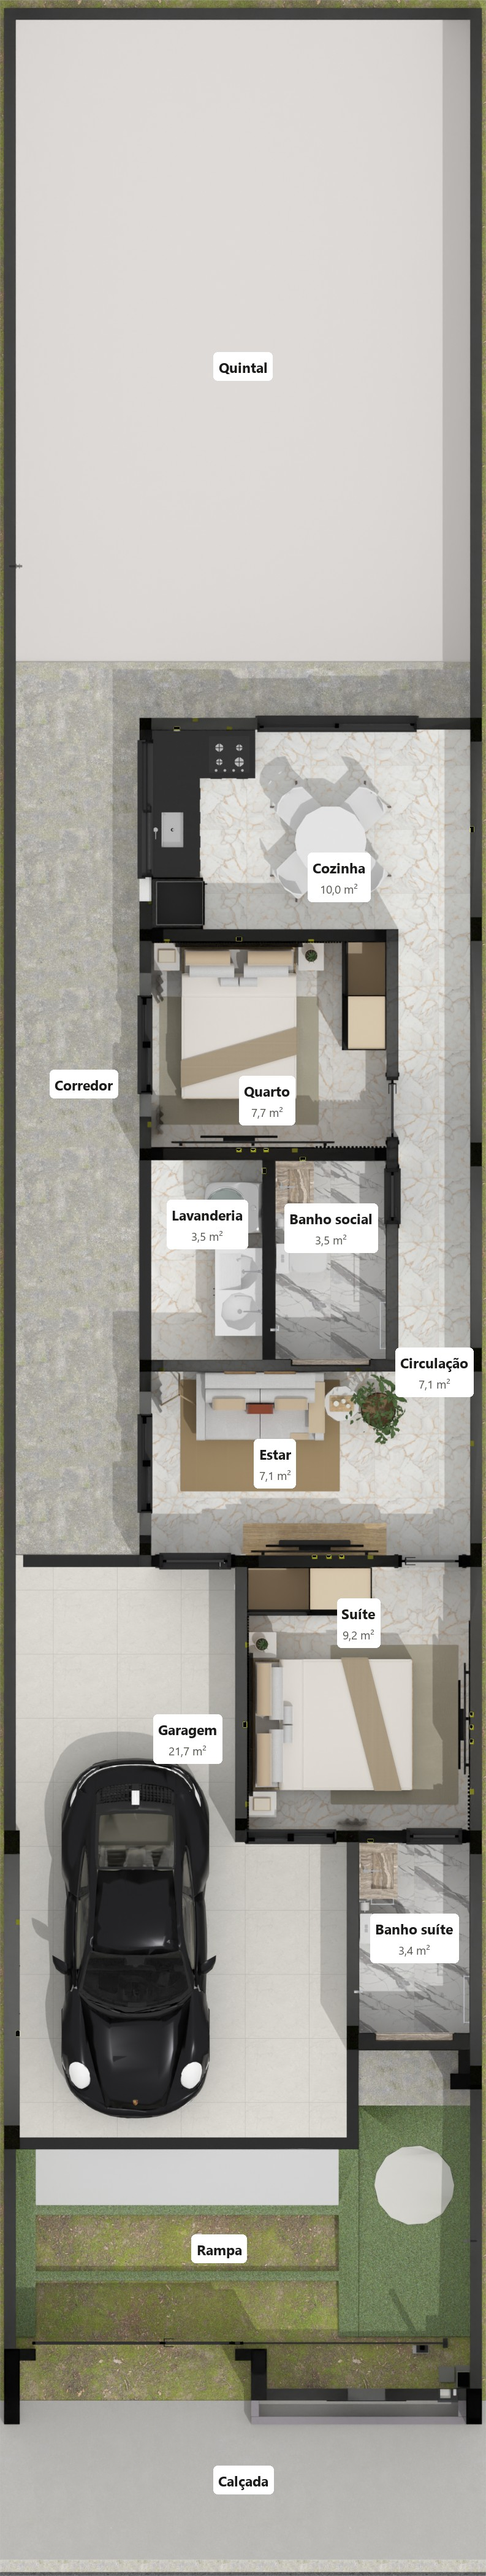
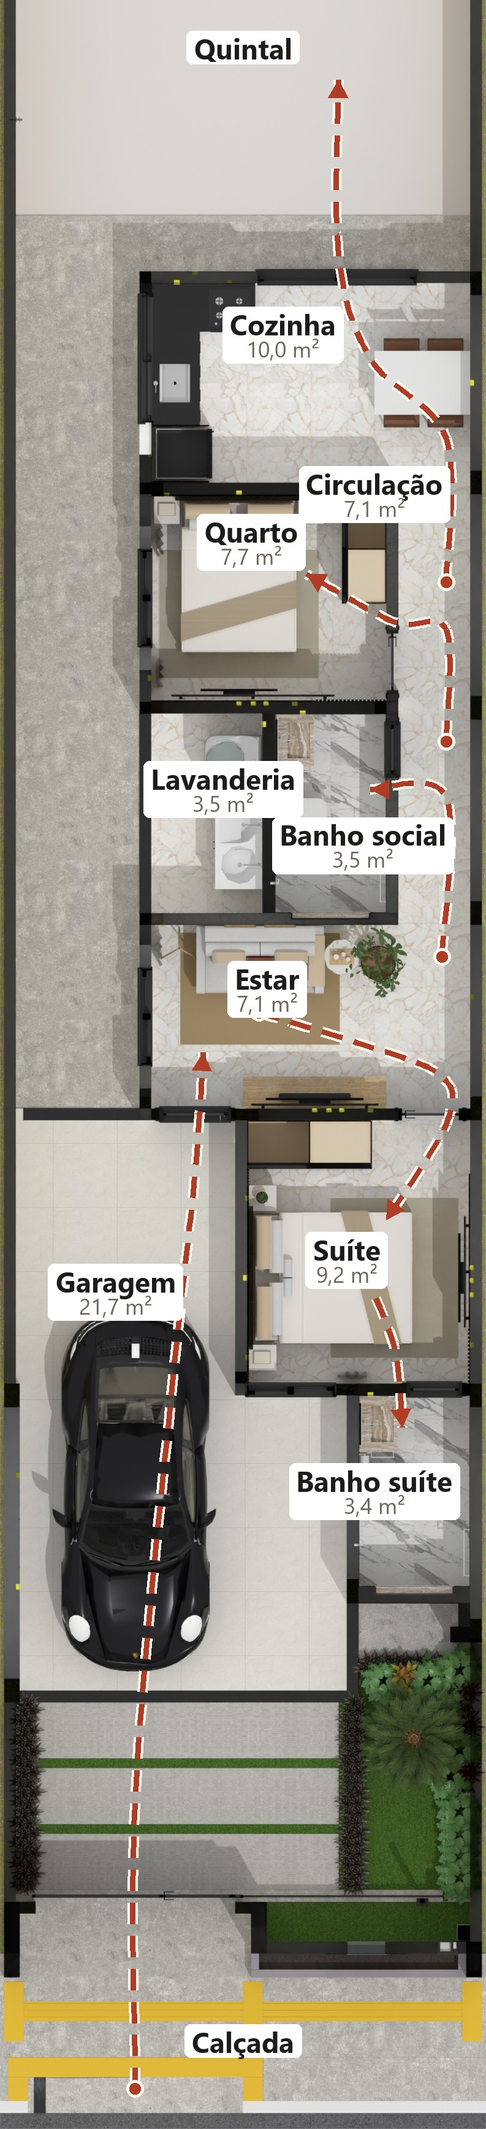
Planta humanizada com circulação, vegetação e área de cada ambiente; menu do celular não cobre os títulos

diff --git a/index.html b/index.html
@@ -170,10 +170,11 @@ footer .miolo { display: flex; justify-content: space-between; gap: 20px; flex-w
 .aviso-escopo a { color: var(--tinta); }
 @media (max-width: 820px) { .escopo .lista { grid-template-columns: minmax(0, 1fr); } }
 
-/* W2: celular */
+/* W2v2: celular */
 @media (max-width: 820px) {
   header.topo, .topo { position: sticky; top: 0; z-index: 50; }
   .topo .miolo { padding-block: 8px 0; }
+  section[id], [id].guia, .tela [id] { scroll-margin-top: 110px; }      /* o cabecalho fixo nao cobre o titulo ao tocar no menu */
   .topo nav { display: flex !important; flex-wrap: nowrap !important; overflow-x: auto; gap: 2px; -webkit-overflow-scrolling: touch; scrollbar-width: none; margin-inline: -4px; }
   .topo nav::-webkit-scrollbar { display: none; }
   .topo nav a { flex: 0 0 auto; display: inline-flex; align-items: center; min-height: 44px; padding: 0 10px; white-space: nowrap; }
@@ -234,9 +235,9 @@ footer .miolo { display: flex; justify-content: space-between; gap: 20px; flex-w
     <p class="rotulo">Planta</p>
     <h2>Uma planta pensada para aproveitar cada espaço</h2>
     <div class="planta">
-      <figure><img loading="lazy" src="img/planta-humanizada.jpg" alt="Planta baixa humanizada do lote 6 × 30 com a casa, a garagem, o corredor lateral e o quintal" data-legenda="Planta baixa humanizada"></figure>
+      <figure><img loading="lazy" src="img/planta-humanizada.jpg" alt="Planta humanizada com o jardim, os caminhos do dia a dia e o nome e a área de cada ambiente" data-legenda="Planta humanizada com circulação"></figure>
       <div class="lado">
-        <p class="intro">Conheça a distribuição da casa na planta humanizada, gerada diretamente do modelo do projeto. As paredes aparecem em preto; pisos e móveis mostram as cores reais dos acabamentos escolhidos. Da rua ao fundo, veja como os espaços se organizam:</p>
+        <p class="intro">Na planta humanizada, gerada do modelo do projeto, as linhas tracejadas mostram os caminhos do dia a dia, e cada ambiente traz o nome e a área. Da rua ao fundo:</p>
         <ol>
           <li>Calçada com piso tátil, muro com portão e porta social, rampa em placas de concreto</li>
           <li>Garagem coberta e, ao lado, o banho da suíte</li>
